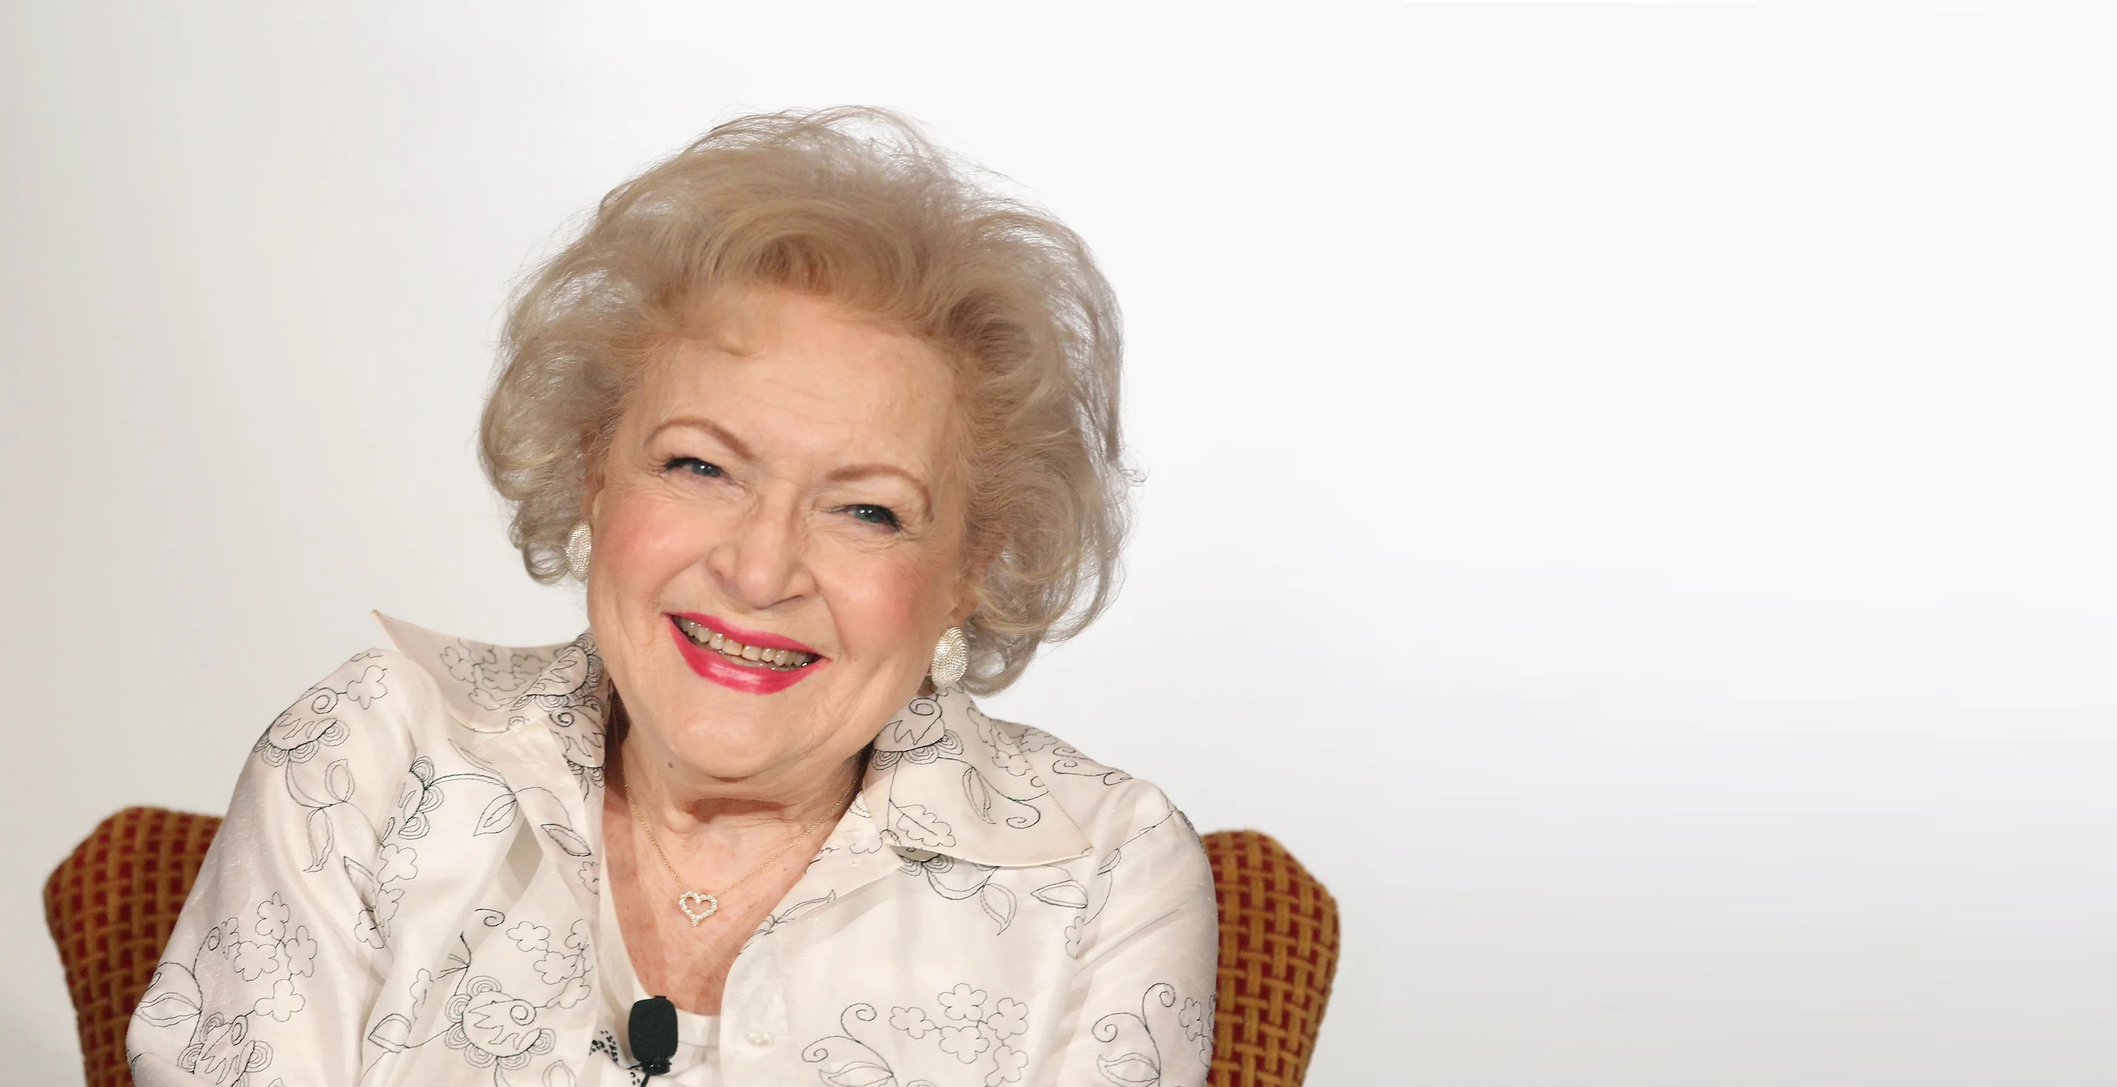
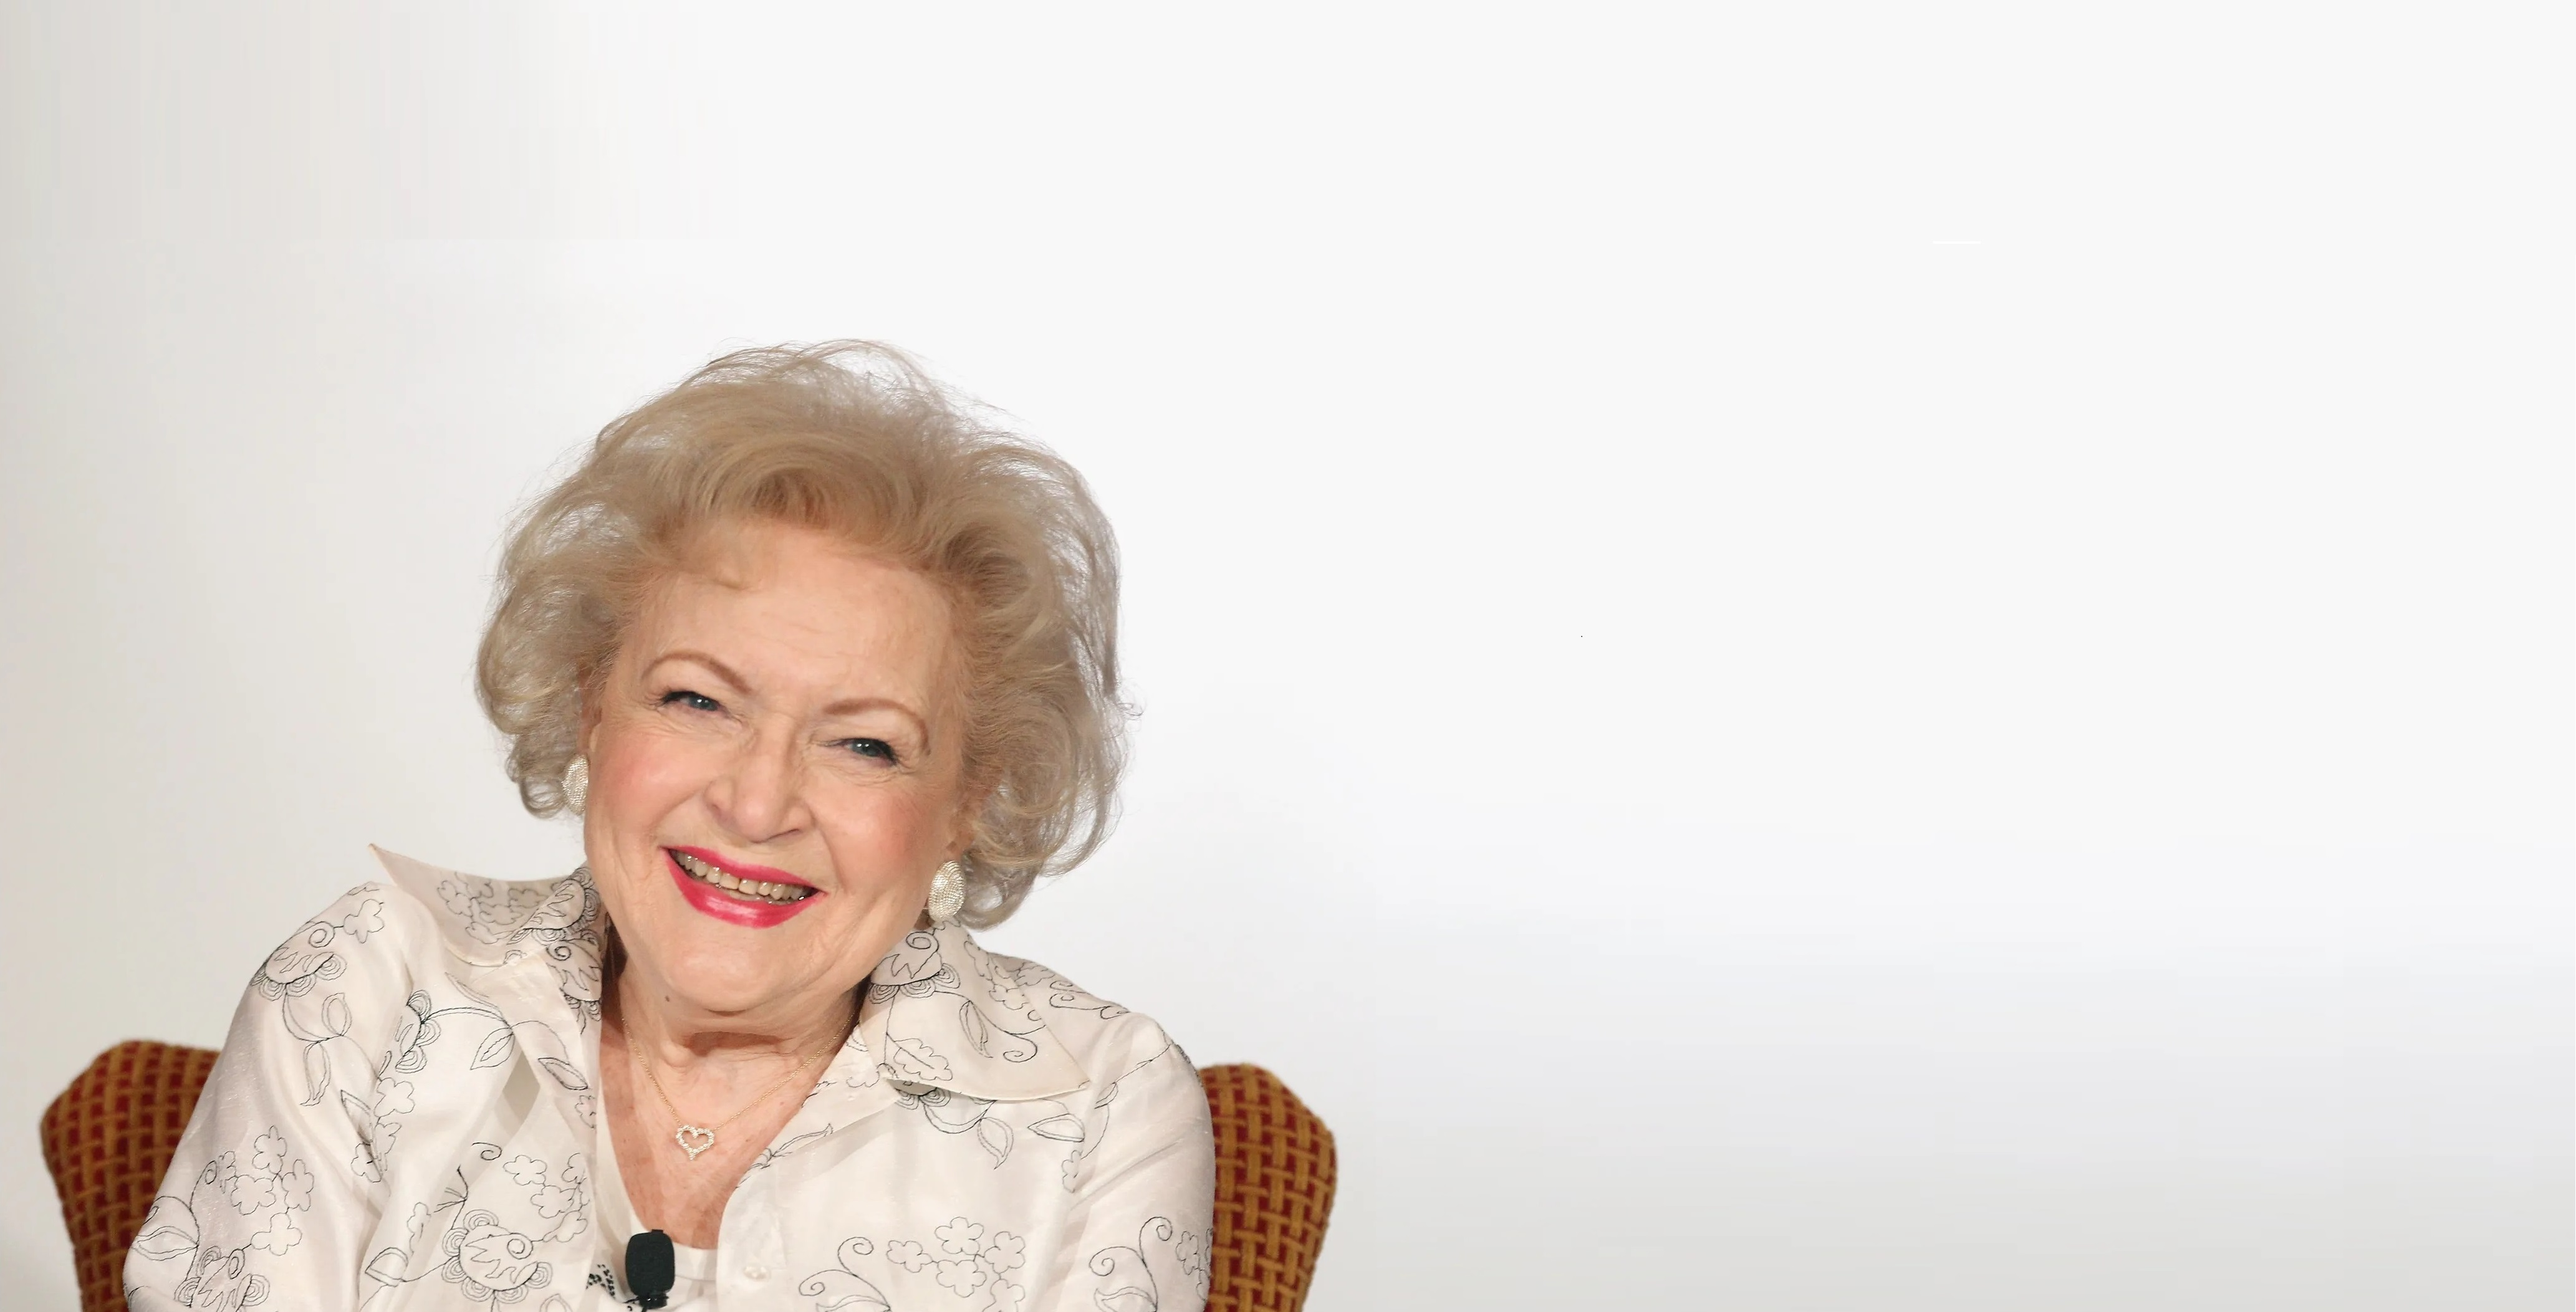
fixed backgroundimg bug

Changed region(s): [[0.0, 0.0929, 0.6555, 1.0], [0.9988, 0.867, 1.0, 1.0]]

diff --git a/tributepage.html b/tributepage.html
@@ -1,12 +1,13 @@
 <!DOCTYPE html>
 <html lang="en">
 <head>
+    <link rel="stylesheet" type="text/css" href="tributestyle.css" media="screen">    
     <meta charset="UTF-8">
     <meta http-equiv="X-UA-Compatible" content="IE=edge">
     <meta name="viewport" content="width=device-width, initial-scale=1.0">
     <title>A Tribute to Betty White</title>
-    <link rel="stylesheet" href="tributestyle.css">
 </head>
+
 <body>
     <h1> Betty White 1922 - 2021 </h1>
 </body>

diff --git a/tributestyle.css b/tributestyle.css
@@ -1,6 +1,6 @@
 body {
-    background-image: url('images\bettywhite.jpg'); 
-    background-repeat: no-repeat; 
-    background-attachment: fixed; 
-    background-size: cover; 
-}
+        background-image: url("images/bettywhite.jpg");
+        background-repeat: no-repeat;
+        background-attachment: fixed;
+        background-size:cover;
+    }
